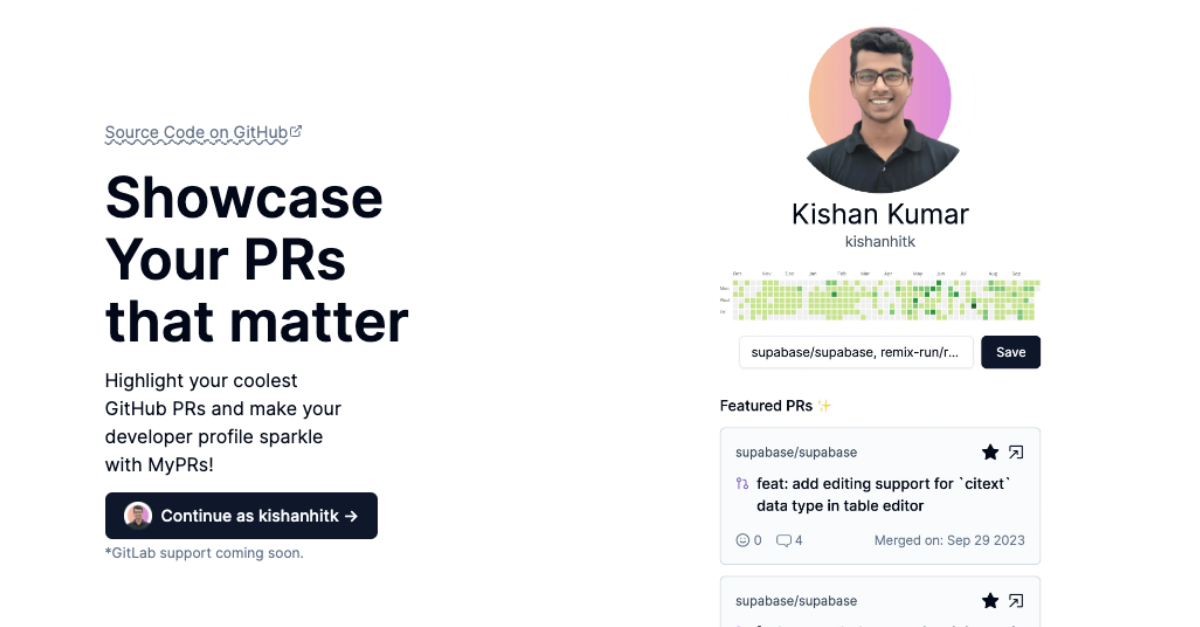
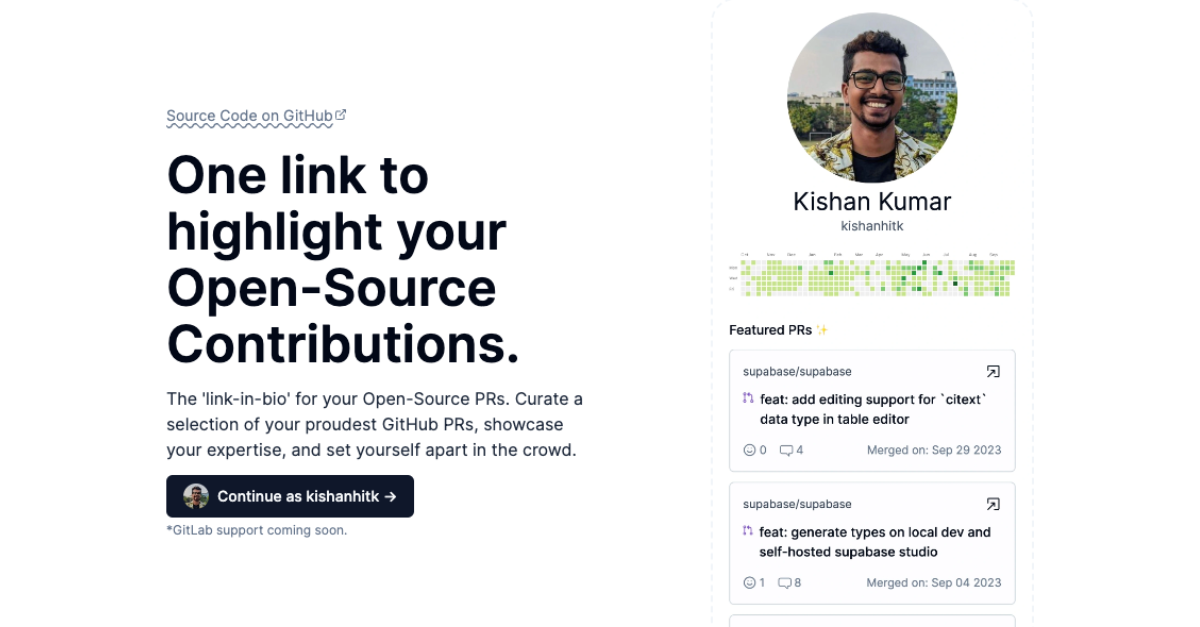
feat: update og image

Changed region(s): [[0.0617, 0.1515, 0.4933, 0.9091], [0.5858, 0.0, 0.8942, 0.7273], [0.6167, 0.7576, 0.8633, 0.9697]]

diff --git a/app/routes/$username.tsx b/app/routes/$username.tsx
@@ -11,7 +11,7 @@ import { DemoGithub } from "~/components/custom/GithubCard2";
 import PRFilter from "~/components/custom/PRFilter";
 import type { Env, GitHubIssuesResponse, GithubUser } from "~/types/shared";
 import { AnimatePresence } from "framer-motion";
-import { Globe, Share, Share2, TwitterIcon } from "lucide-react";
+import { Share2, TwitterIcon } from "lucide-react";
 import { Button } from "~/components/ui/button";
 
 export const meta: MetaFunction<typeof loader> = ({ data }) => {
